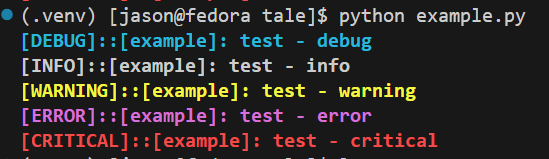
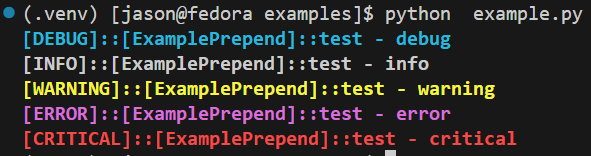
docs: updated docs and example files

diff --git a/examples/example.py b/examples/example.py
@@ -5,7 +5,7 @@ import logtale.filter as filter
 def main():
     logtale = tale.LogTale("example", "0.0.1", "./example.toml")
     logger = logtale.logger.getChild(__name__)
-    logger.addFilter(filter.LogFilter(prepend_text=__name__))
+    logger.addFilter(filter.LogFilter(prepend_text="ExamplePrepend"))
 
     logger.debug("test - debug")
     logger.info("test - info")

diff --git a/README.md b/README.md
@@ -7,15 +7,29 @@ pip install logtale
 ```
 
 ### Usage
+Simple Usage:
 ``` python
-import logtale.logtale as t
+import logtale.logtale as tale
 
-logger = t.LogTale("<my_software_name>", "<my_software_version>", "<log_cfg_path>").logger
-logger.debug("test - debug")
-logger.info("test - info")
-logger.warning("test - warning")
-logger.error("test - error")
-logger.critical("test - critical")
+
+def main():
+    logtale = tale.LogTale("example", "0.0.1", "./example.toml")
+    logger = logtale.logger.getChild(__name__)
+
+    logger.debug("test - debug")
+    logger.info("test - info")
+    logger.warning("test - warning")
+    logger.error("test - error")
+    logger.critical("test - critical")
+
+if __name__ == "__main__":
+    main()
+```
+
+Prepend/Postpend text to the log message:
+``` python
+logger.addFilter(filter.LogFilter(prepend_text="ExamplePrepend"))
+logger.addFilter(filter.LogFilter(postpend_text="ExamplePostpend"))
 ```
 
 ### Configuration File
@@ -51,10 +65,15 @@ Check the `examples` directory for example scripts and configuration files.
 
 ``` python
 # ./examples/example.py
-import logtale.logtale as t
+import logtale.logtale as tale
+import logtale.filter as filter
+
 
 def main():
-    logger = t.LogTale("example", "v0.0.1", "./example.toml").logger
+    logtale = tale.LogTale("example", "0.0.1", "./example.toml")
+    logger = logtale.logger.getChild(__name__)
+    logger.addFilter(filter.LogFilter(prepend_text="ExamplePrepend"))
+
     logger.debug("test - debug")
     logger.info("test - info")
     logger.warning("test - warning")
